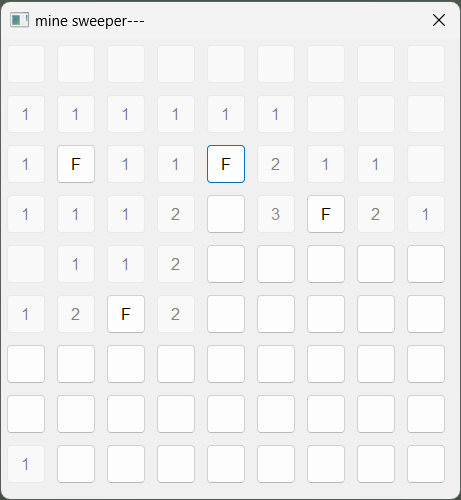
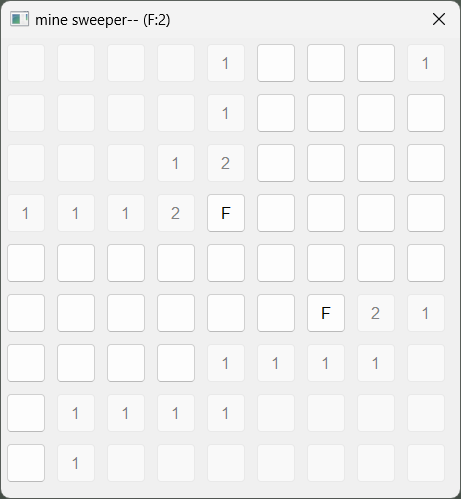
Add flag counter to GUI Add language impression (in Japanese)

diff --git a/README.md b/README.md
@@ -16,3 +16,57 @@ This code is my Nim programming practice.
 nimble install nigui
 nim c --app:gui -d:release mine_sweeper_gui.nim
 ```
+
+## Impression about Nim
+
+Python に似た文法のコンパイル言語。
+
+ブロックに括弧を使わないので、行数が少なく見通しが良い。
+
+オブジェクト指向言語としては割かし普通。継承とかは普通に書ける。
+
+動的型判定は言語仕様としては可能
+
+```nim
+if panel of BombPanel:
+    some_process()
+else:
+    another_process()
+```
+
+だが、作者が「特にメリットも無いのでお勧めしない」と言っておりメソッドで解決した。
+
+```nim
+if panel.isBomb():
+    some_process()
+else:
+    another_process()
+```
+
+可読性的にもこの方が良さそう。
+
+メソッド呼び出しの括弧は省略できる。
+
+```nim
+# どちらでも同じ
+panel.isBomb()
+panel.isBomb
+```
+
+プロパティとメソッドを区別する必要が無いのは便利かも。
+
+デフォルトの戻り値用変数として `result` が用意されており、これを使う場合は return 文を書く必要がない。  
+そこまでタイプ数節約する必要があるかどうかは疑問だが、まあ嬉しい人には嬉しいのかも……。
+
+for 文の以上/以下はきれいに書ける
+
+```python
+for row in (y - 1) .. (y + 1):
+    for col in (x - 1) .. (x + 1):
+```
+
+アクセス修飾子、mutable/immutable などタイプ数少なく書けるようになっており、モダンで書きやすい。
+
+パッケージシステムもあり、言語仕様も比較的シンプルでスラスラ書ける。好きな言語なのだが、全然はやる気配がない。  
+
+トランスパイル言語というところが影響しているのか、デバッグがしづらい所が仕事で使うには致命的。開発環境の発展が期待される。  
